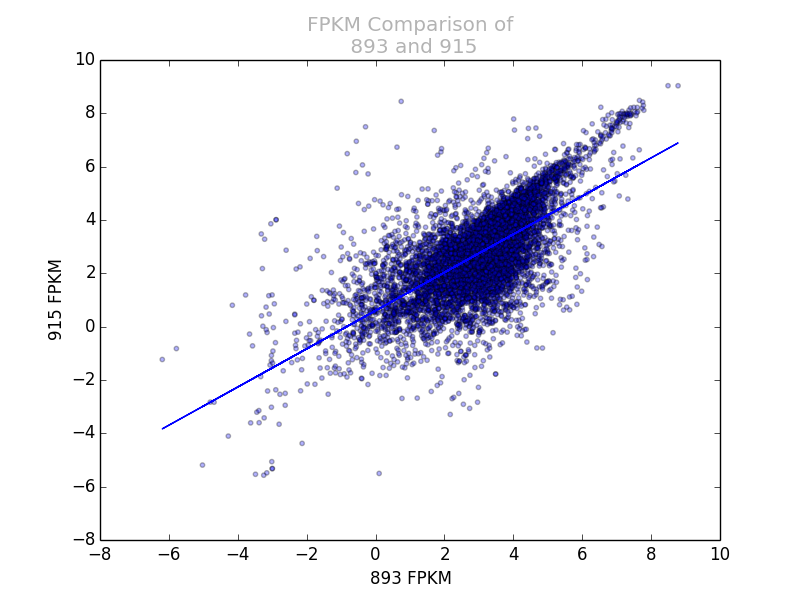
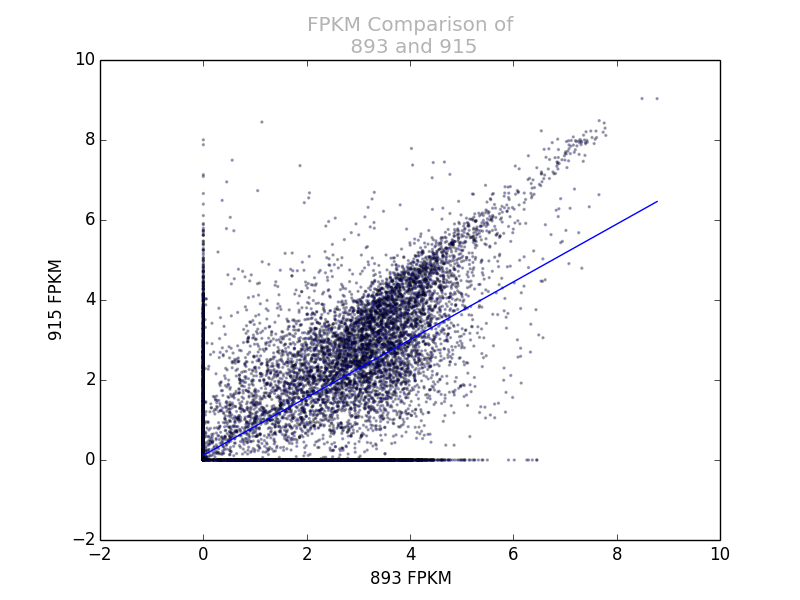
Update

diff --git a/day4-lunch/basic.py b/day4-lunch/basic.py
@@ -2,7 +2,7 @@
 
 
 """
-usage: ./basic.py <file1.ctab> <file2.ctab> 
+usage: ./basic.py <file1.ctab> <file2.ctab> <output name>
 """
 import sys
 import pandas as pd
@@ -22,21 +22,26 @@ df3=pd.merge(df1,df2,on=["t_name"],how="inner")
 roi=df3!=0 
 #=df3["FPKM_y"]!=0
 #roi=roi1 and roi2
-df3=df3[~(df3==0).any(axis=1)]
+#df3=df3[~(df3==0).any(axis=1)]
+#print ~(df3==0).any(axis=1)
 #print df3.head()
+df3["FPKM_x"]=df3["FPKM_x"]+1
+df3["FPKM_y"]=df3["FPKM_y"]+1
+print df3.head()
 df3["FPKM_x"]=np.log(df3["FPKM_x"])
 df3["FPKM_y"]=np.log(df3["FPKM_y"])
 
 plt.figure()
-plt.scatter(df3["FPKM_x"],df3["FPKM_y"],alpha=0.3,s=10)
+plt.scatter(df3["FPKM_x"],df3["FPKM_y"],alpha=0.3,s=2)
 plt.title("FPKM Comparison of \n 893 and 915",alpha=0.3)
-plt.legend(loc='upper left')
+#plt.legend(loc='upper left')
 plt.xlabel("893 FPKM")
 plt.ylabel("915 FPKM")
 
-fit = np.polyfit(x=df3["FPKM_x"],y=df3["FPKM_y"],deg=1)
-plt.plot(df3["FPKM_x"],fit[0]*df3["FPKM_x"]+fit[1],'-')
-print fit
+#fit = np.polyfit(x=df3["FPKM_x"],y=df3["FPKM_y"],deg=1)
+#plt.plot(df3["FPKM_x"],fit[0]*df3["FPKM_x"]+fit[1],'-')
+plt.plot(np.unique(df3["FPKM_x"]), np.poly1d(np.polyfit(df3["FPKM_x"], df3["FPKM_y"], 1))(np.unique(df3["FPKM_x"])))
+#print fit
 plt.savefig(sys.argv[3])
 plt.close()
 
